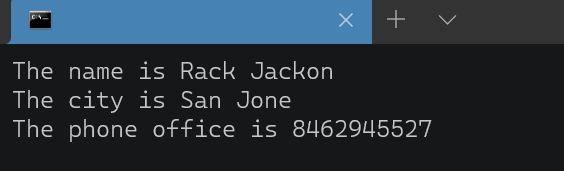
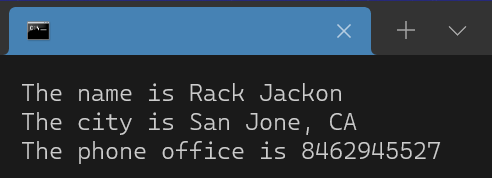
refactor: update demo

Changed region(s): [[0.0, 0.3509, 0.9146, 0.9064], [0.0, 0.0, 1.0, 0.3216], [0.9146, 0.1462, 0.9451, 0.2047]]

diff --git a/demo/Test.cpp b/demo/Test.cpp
@@ -1,13 +1,13 @@
 #include<iostream>
 using namespace std;
 
-#include"JsonReader.h" // include this file
+#include"../src/JsonReader.h" // include this file
 
 int main(int argc, char** argv){
     // build a Object Json
 	Json file("file.json"); // path to json file
     // Get properties like -> file["path_to_property"]
     cout << "The name is " << file["firstName"] << ' ' << file["lastName"] << endl;
-    cout << "The city is " << file["address/city"] << endl;
-    cout << "The phone office is " << file["phoneNumbers/1/number"] << endl;
+    cout << "The city is " << file["address"]["city"] << ", " << file["address"]["state"] << endl;
+    cout << "The phone office is " << file["phoneNumbers"][1]["number"] << endl;
 }
